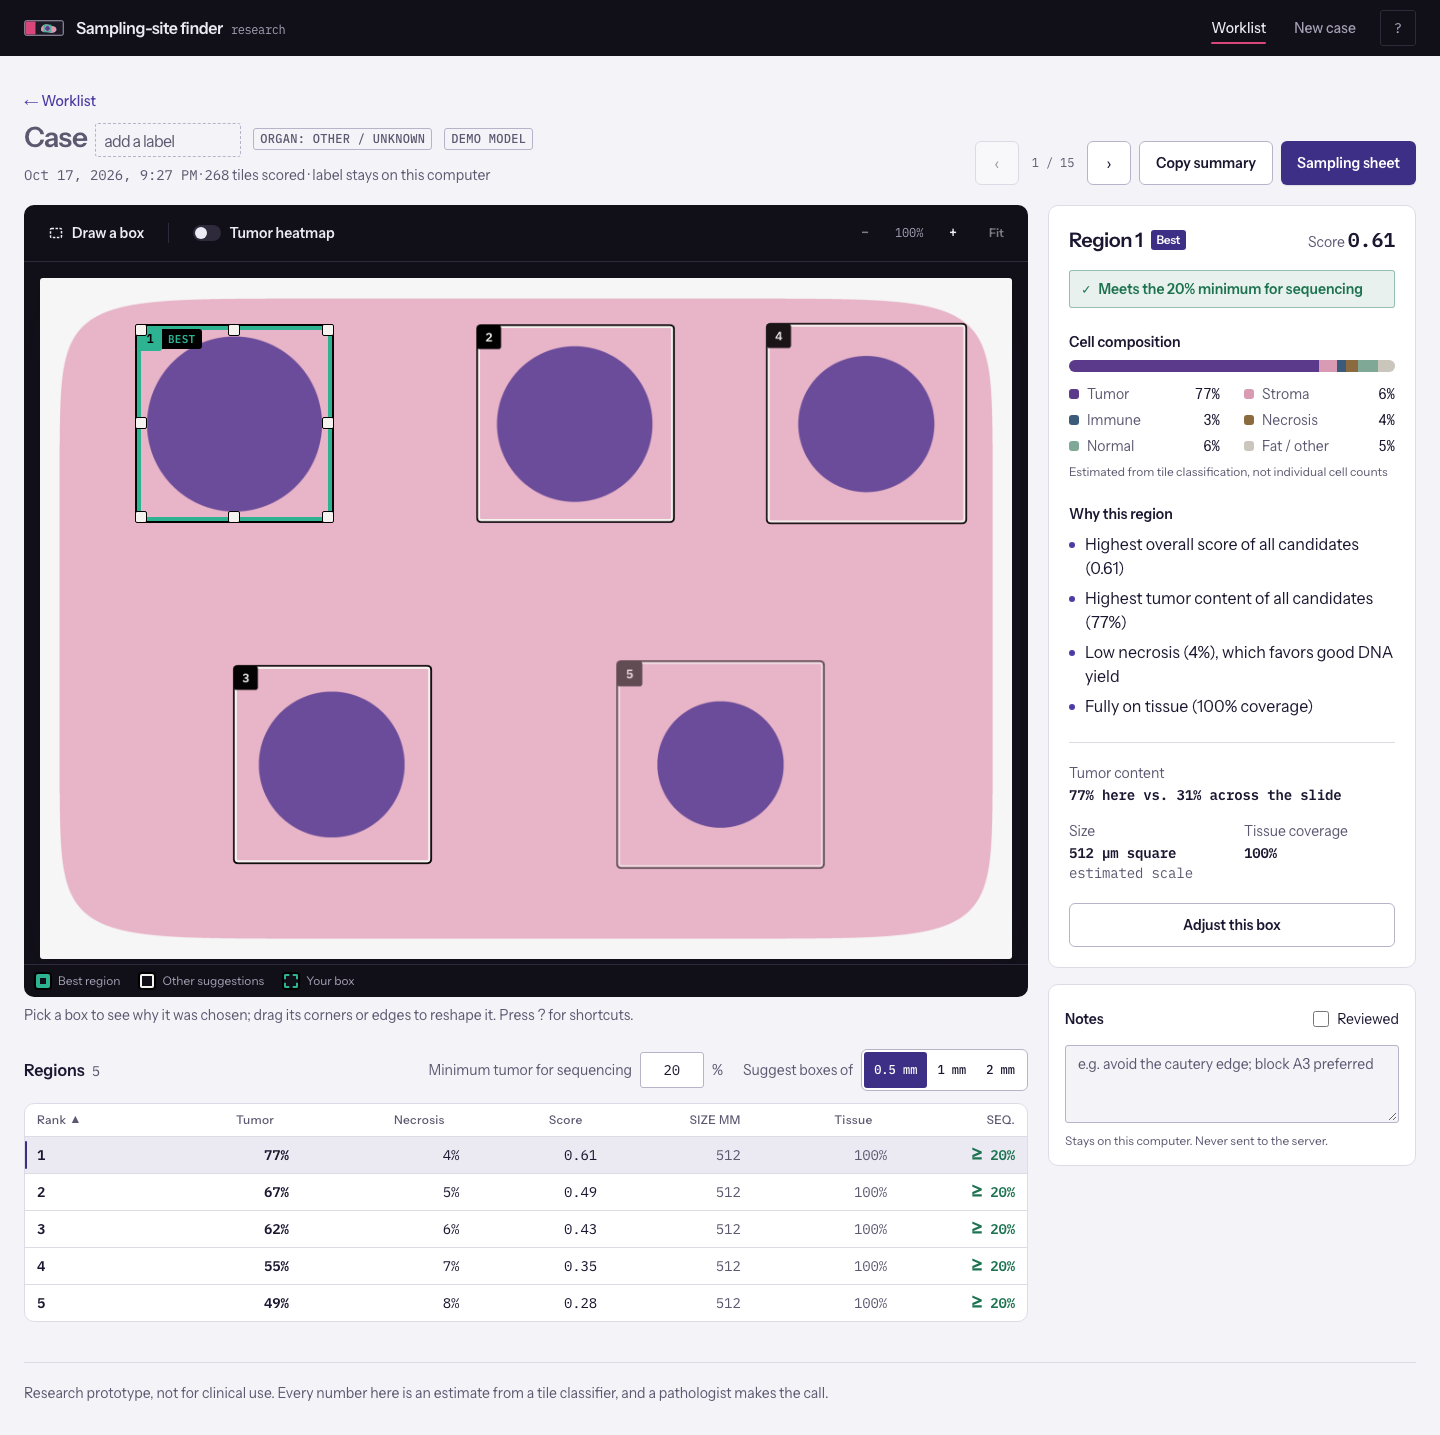
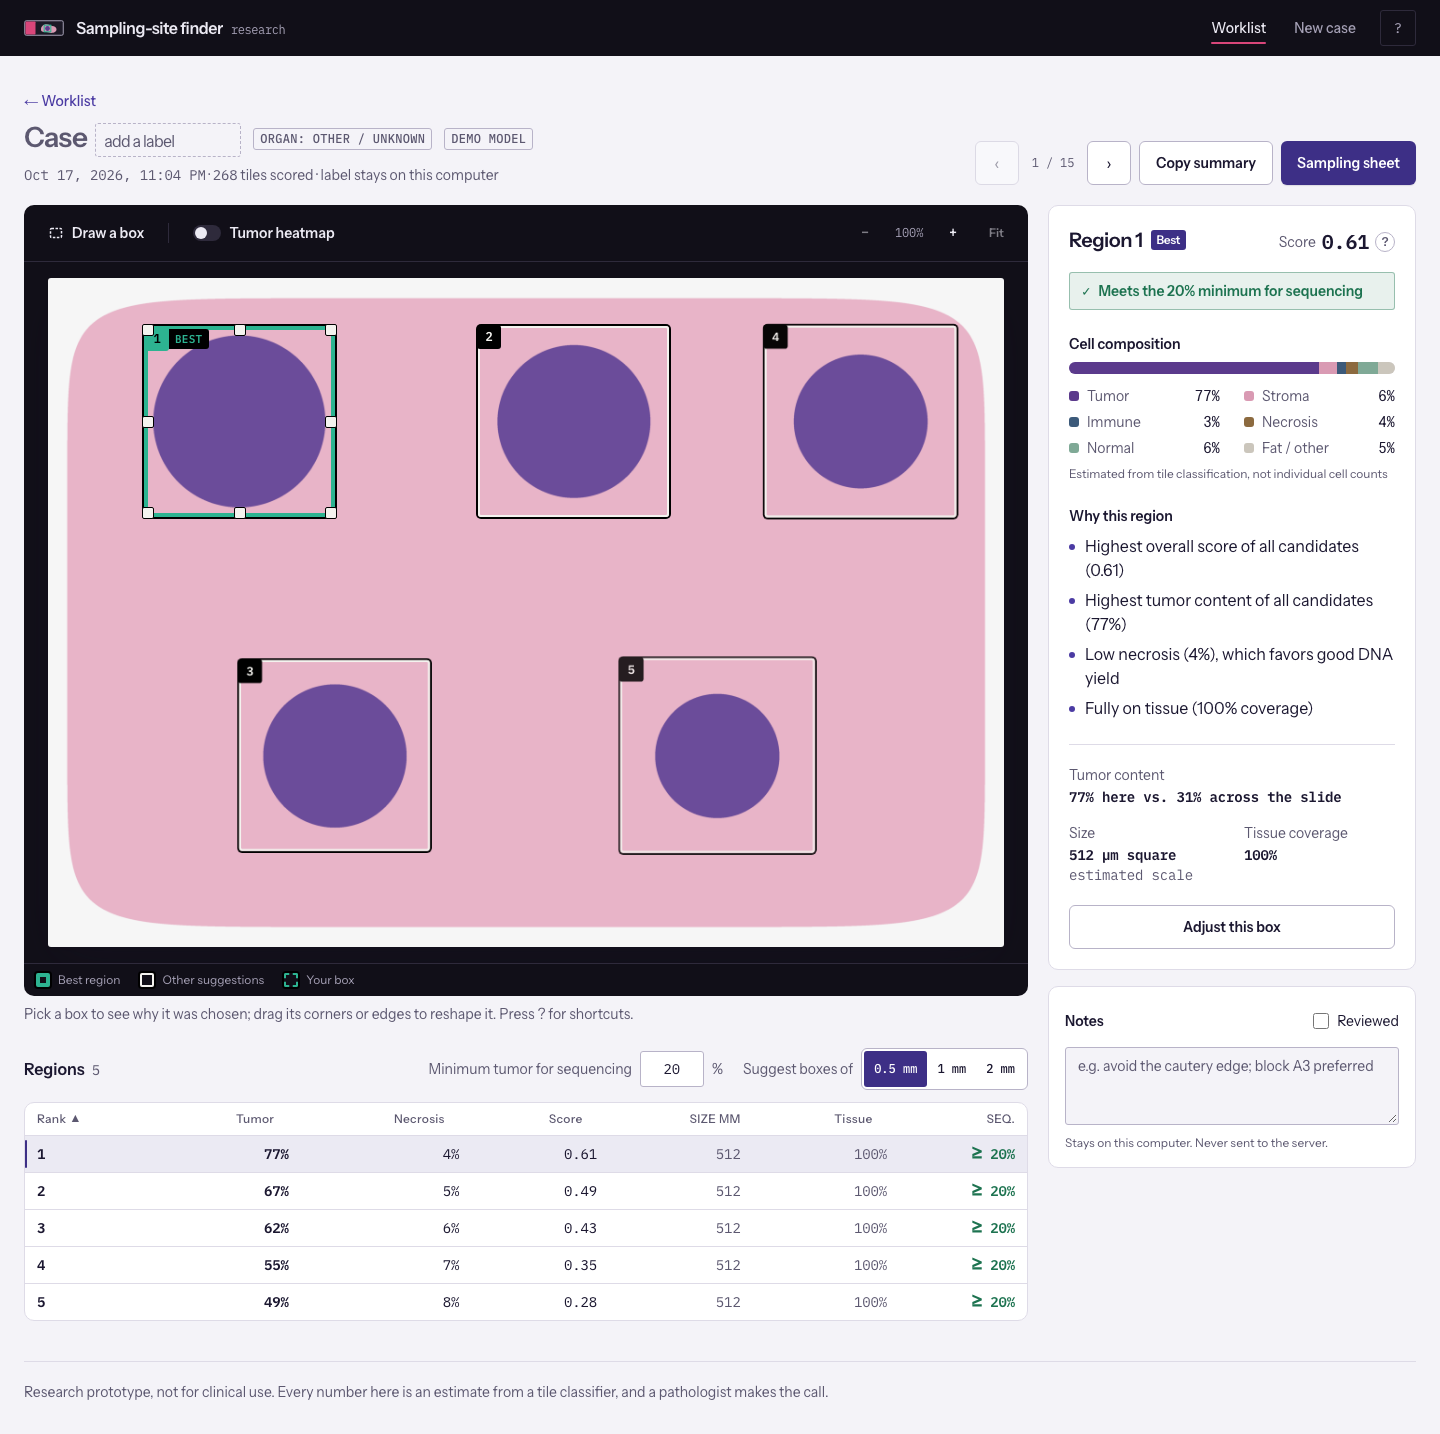
score help: a ? next to each score explains how it's calculated
Tooltip on hover, focus or tap (Escape closes): tumor - w_necrosis x
necrosis - w_variation x unevenness, with the weights read from
config.yaml so the text can't drift from regions.py. Shown in the region
panel and the free-box panel.

diff --git a/frontend/components/ScoreHelp.tsx b/frontend/components/ScoreHelp.tsx
@@ -1,0 +1,49 @@
+'use client'
+
+import { useId, useState } from 'react'
+import { settings } from '@/lib/format'
+
+// A "?" next to a score that explains how it's calculated (backend/project/regions.py region_score).
+// Opens on hover, keyboard focus or tap; closes on leave, blur or Escape. Weights come from config.yaml.
+export default function ScoreHelp() {
+  const [open, setOpen] = useState(false)
+  const id = useId()
+  const { necrosis, variation } = settings.scoreWeights
+
+  return (
+    <span className="relative inline-flex align-middle">
+      <button
+        type="button"
+        aria-label="How the score is calculated"
+        aria-describedby={open ? id : undefined}
+        onMouseEnter={() => setOpen(true)}
+        onMouseLeave={() => setOpen(false)}
+        onFocus={() => setOpen(true)}
+        onBlur={() => setOpen(false)}
+        onClick={() => setOpen(true)}
+        onKeyDown={(e) => {
+          if (e.key === 'Escape') setOpen(false)
+        }}
+        className="relative inline-flex size-5 cursor-help items-center justify-center rounded-full border border-line-strong font-sans text-xs font-semibold text-ink-muted transition-colors duration-fast hover:border-ink-muted hover:text-ink after:absolute after:-inset-3 after:content-['']"
+      >
+        <span aria-hidden>?</span>
+      </button>
+      {open && (
+        <span
+          role="tooltip"
+          id={id}
+          className="absolute top-full right-0 z-30 mt-2 block w-72 max-w-[calc(100vw-2rem)] rounded-md border border-line-strong bg-surface p-3 text-left font-sans text-sm font-normal text-ink shadow-overlay"
+        >
+          <span className="block font-semibold">
+            Score = tumor − {necrosis} × necrosis − {variation} × unevenness
+          </span>
+          <span className="mt-2 block text-ink-muted">
+            Tumor and necrosis are the average share of each across the box's tiles, as CONCH scored them. Unevenness
+            is how much tumor varies from tile to tile (its standard deviation), so an evenly tumor-rich box beats one
+            that mixes rich and empty patches. Higher is better. It ranks regions; it isn't a percentage.
+          </span>
+        </span>
+      )}
+    </span>
+  )
+}

diff --git a/frontend/components/ScoreHelp.test.tsx b/frontend/components/ScoreHelp.test.tsx
@@ -1,0 +1,50 @@
+import { render, screen } from '@testing-library/react'
+import userEvent from '@testing-library/user-event'
+import { settings } from '@/lib/format'
+import { makeMeasured, makeResult } from '@/test/fixtures'
+import FreeBoxPanel from './FreeBoxPanel'
+import ScoreHelp from './ScoreHelp'
+
+const trigger = () => screen.getByRole('button', { name: 'How the score is calculated' })
+
+test('a question-mark button with an accessible name; the explanation is hidden at first', () => {
+  render(<ScoreHelp />)
+  expect(trigger()).toHaveTextContent('?')
+  expect(screen.queryByRole('tooltip')).not.toBeInTheDocument()
+})
+
+test('hovering shows the formula with the weights from config.yaml', async () => {
+  render(<ScoreHelp />)
+  await userEvent.hover(trigger())
+  const tip = screen.getByRole('tooltip')
+  expect(settings.scoreWeights).toEqual({ necrosis: 1, variation: 0.5 })
+  expect(tip).toHaveTextContent('Score = tumor − 1 × necrosis − 0.5 × unevenness')
+  expect(tip).toHaveTextContent(/standard deviation/)
+  expect(trigger()).toHaveAttribute('aria-describedby', tip.id)
+  await userEvent.unhover(trigger())
+  expect(screen.queryByRole('tooltip')).not.toBeInTheDocument()
+})
+
+test('keyboard focus shows it, and Escape hides it', async () => {
+  render(<ScoreHelp />)
+  await userEvent.tab()
+  expect(trigger()).toHaveFocus()
+  expect(screen.getByRole('tooltip')).toBeInTheDocument()
+  await userEvent.keyboard('{Escape}')
+  expect(screen.queryByRole('tooltip')).not.toBeInTheDocument()
+})
+
+test('a tap (click) opens it, for touch screens', async () => {
+  render(<ScoreHelp />)
+  trigger().focus()
+  await userEvent.keyboard('{Escape}')
+  await userEvent.click(trigger())
+  expect(screen.getByRole('tooltip')).toBeInTheDocument()
+})
+
+test("the user's own box shows the same help next to its score", () => {
+  render(
+    <FreeBoxPanel measured={makeMeasured(200, 200, 400, 300)} measuring={false} error={null} result={makeResult()} threshold={0.2} onRemove={() => {}} />,
+  )
+  expect(trigger()).toBeInTheDocument()
+})

diff --git a/frontend/app-settings.ts b/frontend/app-settings.ts
@@ -13,7 +13,15 @@ export function readAppSettings(frontendDir: string) {
   const organs = /^organs:\s*\[([^\]]*)\]/m.exec(config)?.[1].split(',').map((o) => o.trim()).filter(Boolean)
   const defaultOrgan = /^default_organ:\s*(\S+)/m.exec(config)?.[1]
   if (!organs?.length || !defaultOrgan) throw new Error('config.yaml needs organs and default_organ')
-  return { maxUploadMb: num('max_upload_mb'), defaultMpp: num('default_mpp'), organs, defaultOrgan }
+  // The ranking score's weights, for the "how is the score calculated" help (backend/project/regions.py).
+  const weightsBlock = /^weights:\s*\n((?:[ \t]+\S.*\n?)+)/m.exec(config)?.[1] ?? ''
+  const weight = (key: string) => {
+    const v = Number(new RegExp(`^\\s+${key}:\\s*([\\d.]+)`, 'm').exec(weightsBlock)?.[1])
+    if (Number.isNaN(v) || !weightsBlock.includes(key)) throw new Error(`config.yaml needs weights.${key}`)
+    return v
+  }
+  const scoreWeights = { necrosis: weight('necrosis'), variation: weight('variation') }
+  return { maxUploadMb: num('max_upload_mb'), defaultMpp: num('default_mpp'), organs, defaultOrgan, scoreWeights }
 }
 
 // Names of the variables next.config's `env` (and the Vitest config) sets for the browser code.
@@ -24,5 +32,7 @@ export function settingsEnv(frontendDir: string): Record<string, string> {
     DEFAULT_MPP: String(s.defaultMpp),
     ORGANS: s.organs.join(','),
     DEFAULT_ORGAN: s.defaultOrgan,
+    SCORE_WEIGHT_NECROSIS: String(s.scoreWeights.necrosis),
+    SCORE_WEIGHT_VARIATION: String(s.scoreWeights.variation),
   }
 }

diff --git a/frontend/components/FreeBoxPanel.tsx b/frontend/components/FreeBoxPanel.tsx
@@ -1,6 +1,7 @@
 import type { MeasuredBox, Result } from '@/lib/api'
 import { pct } from '@/lib/format'
 import { CompositionSection, Reasons } from './RegionPanel'
+import ScoreHelp from './ScoreHelp'
 import ThresholdVerdict from './ThresholdVerdict'
 import { button } from './ui'
 
@@ -30,8 +31,9 @@ export default function FreeBoxPanel({
       <div className="flex items-baseline justify-between gap-4">
         <h2 className="text-lg font-semibold tracking-tight">Your box</h2>
         {measured && !error && (
-          <p className="text-right text-sm text-ink-muted">
+          <p className="flex items-center gap-1.5 text-right text-sm text-ink-muted">
             Score <span className="num text-lg font-semibold text-ink">{measured.score.toFixed(2)}</span>
+            <ScoreHelp />
           </p>
         )}
       </div>

diff --git a/frontend/components/RegionPanel.tsx b/frontend/components/RegionPanel.tsx
@@ -1,5 +1,6 @@
 import { CLASSES, type Composition, type Region, type Result } from '@/lib/api'
 import { CLASS_LABELS, pct } from '@/lib/format'
+import ScoreHelp from './ScoreHelp'
 import ThresholdVerdict from './ThresholdVerdict'
 import { button } from './ui'
 
@@ -76,8 +77,9 @@ export default function RegionPanel({
             <span className="rounded-sm bg-accent px-1.5 py-0.5 font-sans text-xs font-semibold text-accent-ink">Best</span>
           )}
         </h2>
-        <p className="text-right text-sm text-ink-muted">
+        <p className="flex items-center gap-1.5 text-right text-sm text-ink-muted">
           Score <span className="num text-lg font-semibold text-ink">{region.score.toFixed(2)}</span>
+          <ScoreHelp />
         </p>
       </div>
 

diff --git a/frontend/components/Results.test.tsx b/frontend/components/Results.test.tsx
@@ -227,3 +227,9 @@ test('names the organ the prompts were chosen for, when the result has one', () 
   render(<Results result={makeResult({ organ: undefined })} />)   // recorded before the organ picker
   expect(screen.queryByText(/organ:/i)).not.toBeInTheDocument()
 })
+
+test('the region panel score has a "how it is calculated" help button next to it', () => {
+  render(<Results result={makeResult()} />)
+  const panel = within(screen.getByRole('region', { name: /region details/i }))
+  expect(panel.getByRole('button', { name: 'How the score is calculated' })).toBeInTheDocument()
+})

diff --git a/frontend/lib/format.ts b/frontend/lib/format.ts
@@ -32,6 +32,10 @@ export const settings = {
   defaultMpp: Number(process.env.DEFAULT_MPP),
   organs: (process.env.ORGANS ?? '').split(',').filter(Boolean),
   defaultOrgan: process.env.DEFAULT_ORGAN ?? '',
+  scoreWeights: {
+    necrosis: Number(process.env.SCORE_WEIGHT_NECROSIS),
+    variation: Number(process.env.SCORE_WEIGHT_VARIATION),
+  },
 }
 
 // Display names for config.yaml's organs. The backend picks that organ's CONCH prompts.
